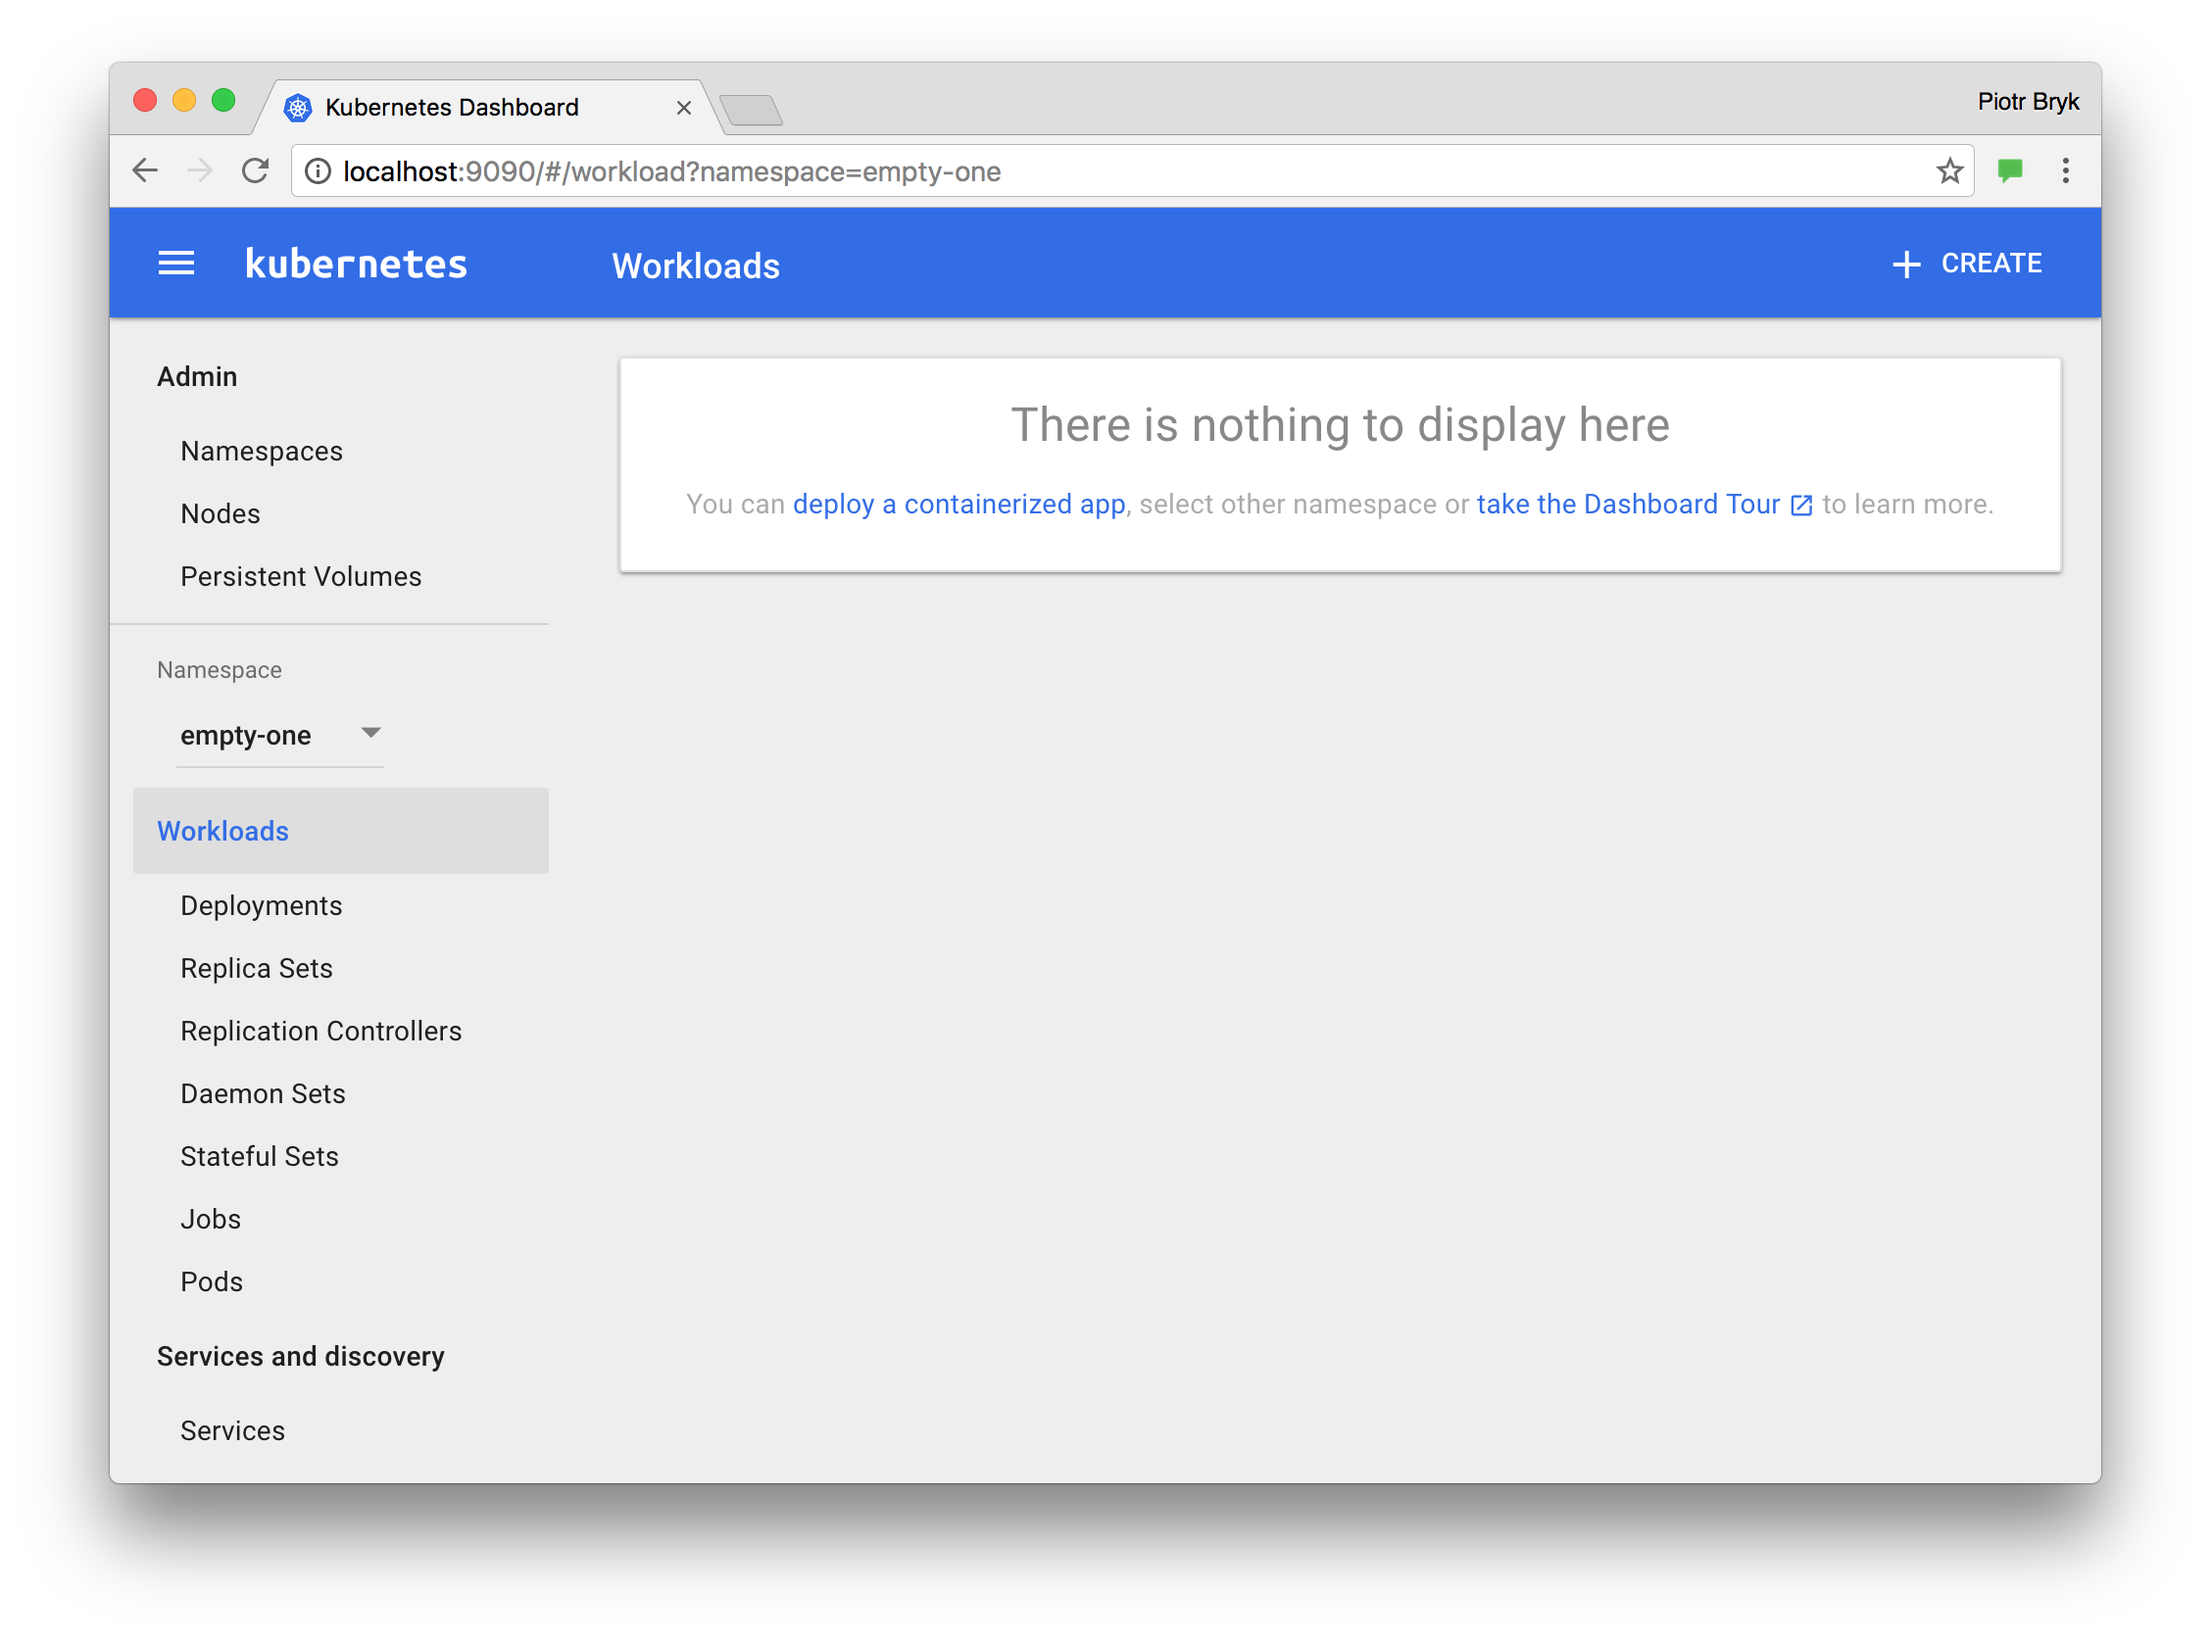
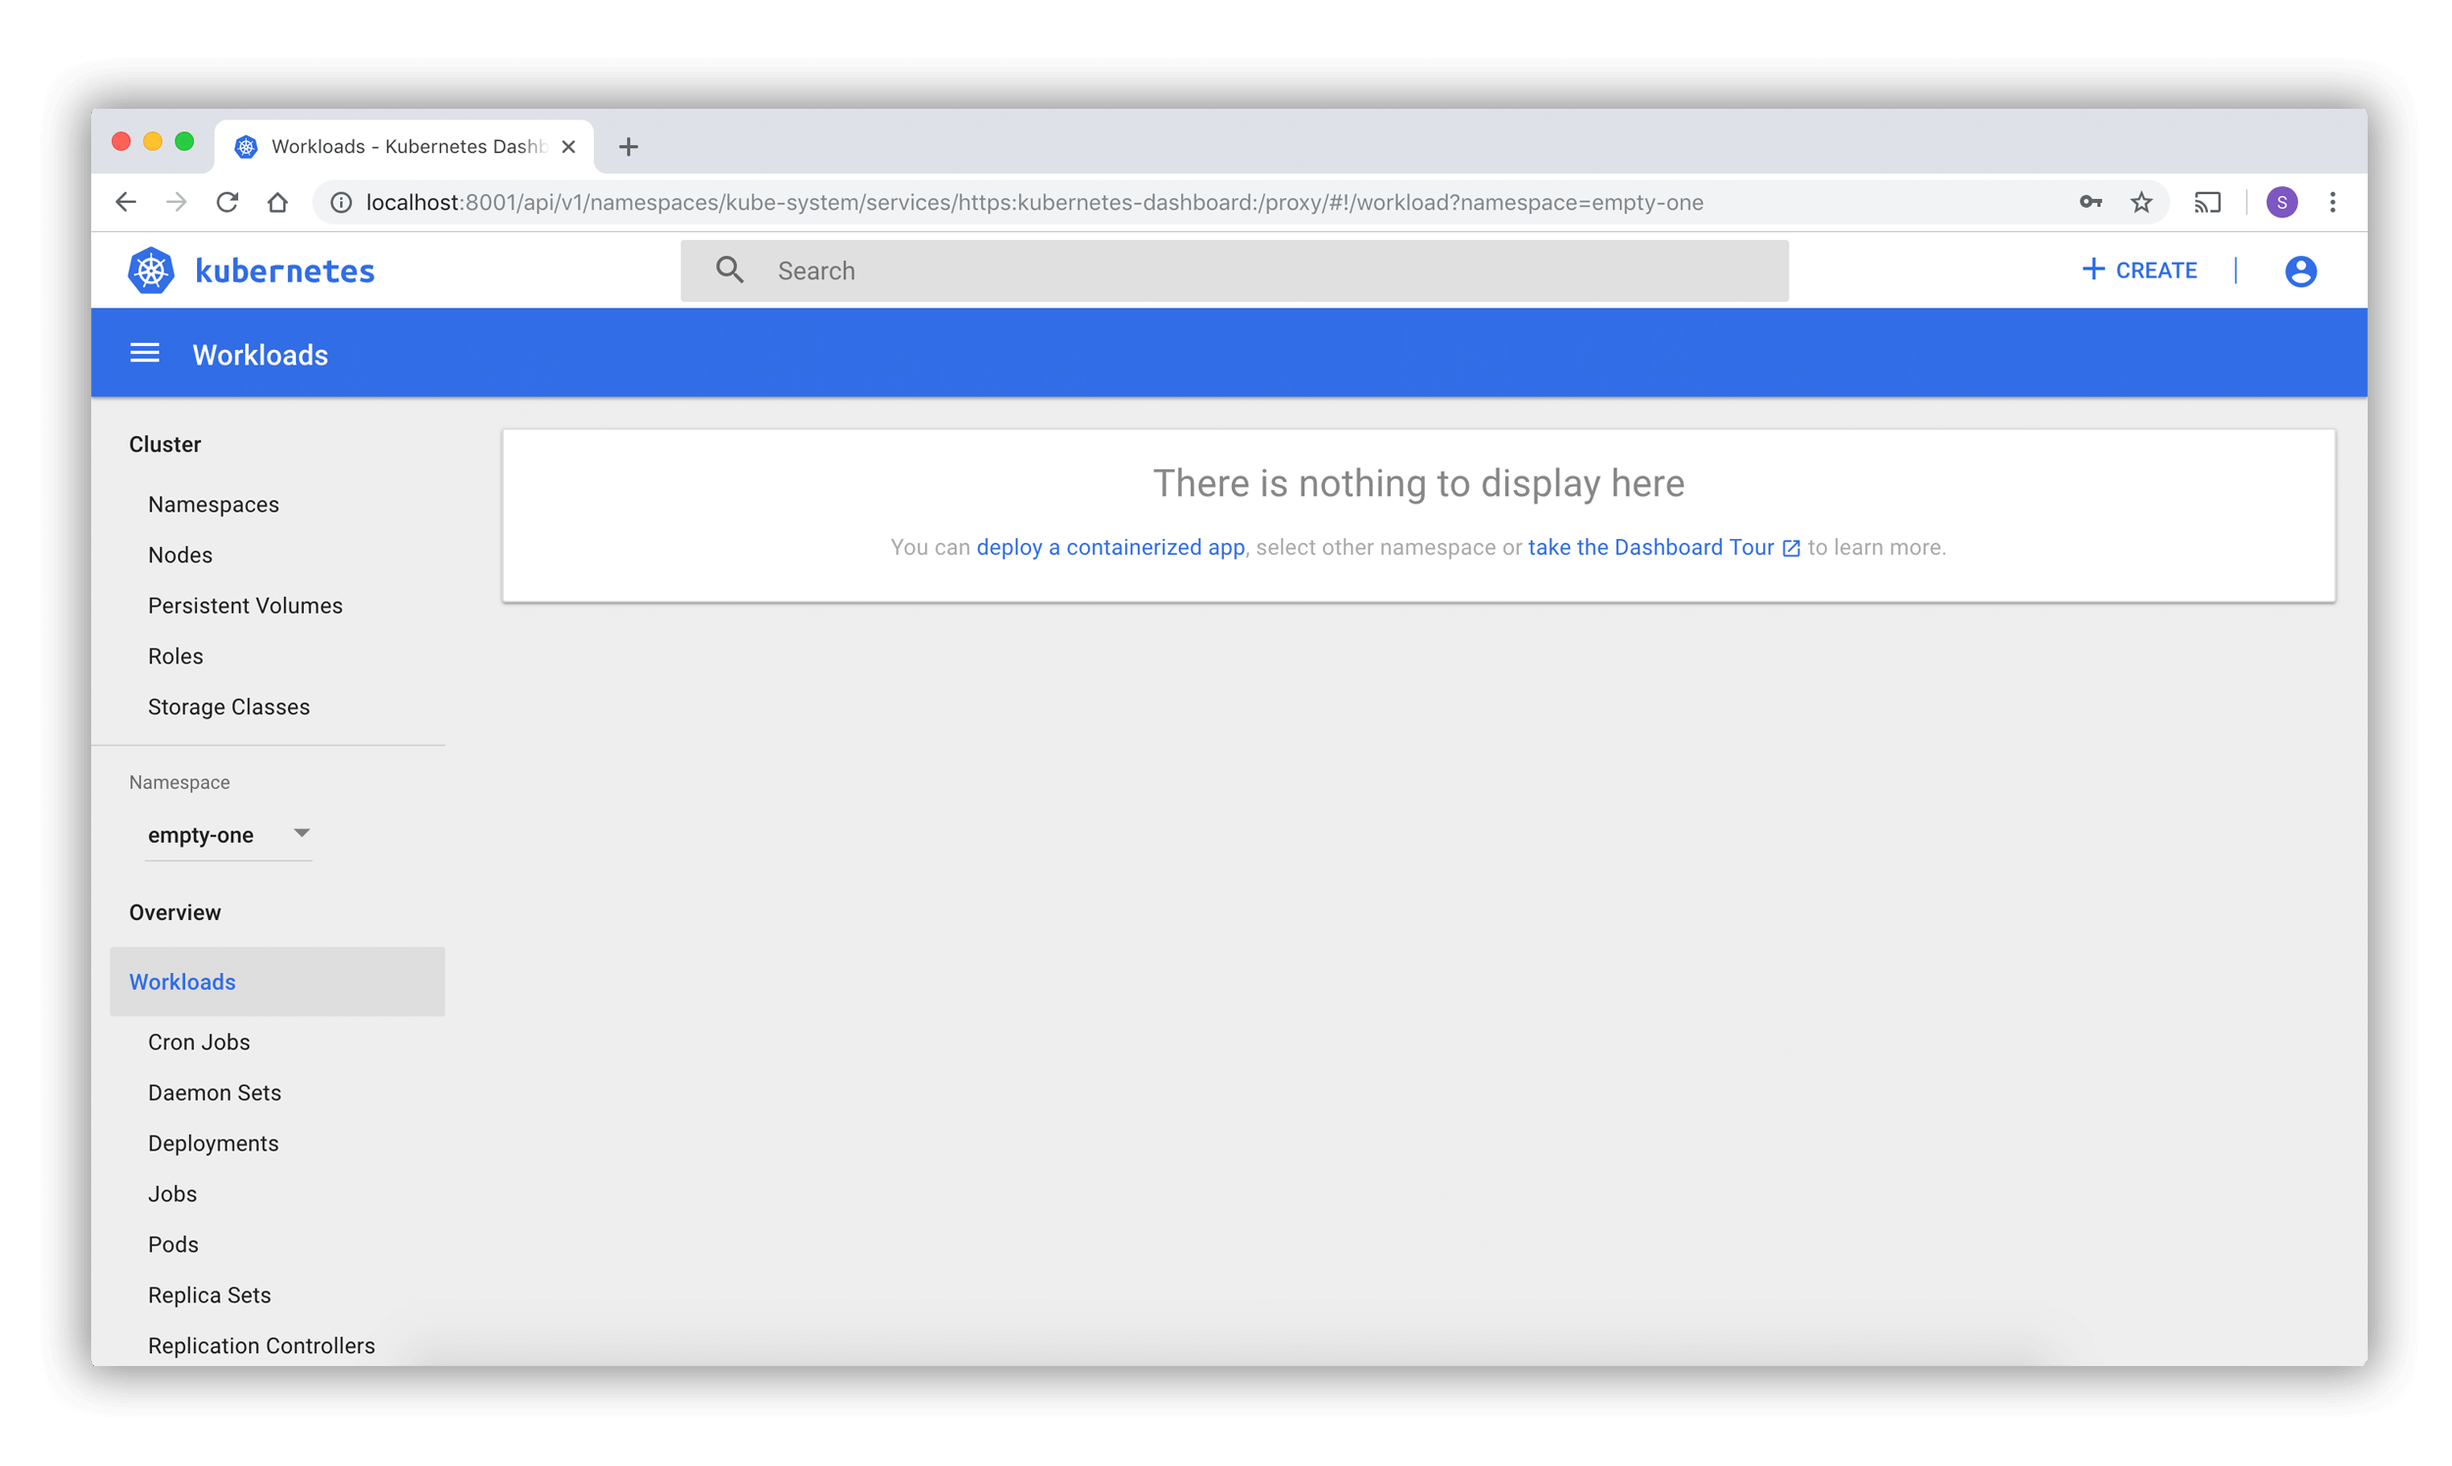
Ui dashboard docs refresh (#11653)
* updating docs for Dashboard

* removing old images

Changed region(s): [[0.031, 0.0307, 0.9929, 0.9532]]

diff --git a/content/en/docs/tasks/access-application-cluster/web-ui-dashboard.md b/content/en/docs/tasks/access-application-cluster/web-ui-dashboard.md
@@ -10,9 +10,9 @@ weight: 10
 
 {{% capture overview %}}
 
-Dashboard is a web-based Kubernetes user interface. You can use Dashboard to deploy containerized applications to a Kubernetes cluster, troubleshoot your containerized application, and manage the cluster itself along with its attendant resources. You can use Dashboard to get an overview of applications running on your cluster, as well as for creating or modifying individual Kubernetes resources (such as Deployments, Jobs, DaemonSets, etc). For example, you can scale a Deployment, initiate a rolling update, restart a pod or deploy new applications using a deploy wizard.
+Dashboard is a web-based Kubernetes user interface. You can use Dashboard to deploy containerized applications to a Kubernetes cluster, troubleshoot your containerized application, and manage the cluster resources. You can use Dashboard to get an overview of applications running on your cluster, as well as for creating or modifying individual Kubernetes resources (such as Deployments, Jobs, DaemonSets, etc). For example, you can scale a Deployment, initiate a rolling update, restart a pod or deploy new applications using a deploy wizard.
 
-Dashboard also provides information on the state of Kubernetes resources in your cluster, and on any errors that may have occurred.
+Dashboard also provides information on the state of Kubernetes resources in your cluster and on any errors that may have occurred.
 
 ![Kubernetes Dashboard UI](/images/docs/ui-dashboard.png)
 
@@ -31,7 +31,11 @@ kubectl create -f https://raw.githubusercontent.com/kubernetes/dashboard/master/
 
 ## Accessing the Dashboard UI
 
-There are multiple ways you can access the Dashboard UI; either by using the kubectl command-line interface, or by accessing the Kubernetes master apiserver using your web browser.
+To protect your cluster data, Dashboard deploys with a minimal RBAC configuration by default. Currently, Dashboard only supports logging in with a Bearer Token. To create a token for this demo, you can follow our guide on [creating a sample user](https://github.com/kubernetes/dashboard/wiki/Creating-sample-user).
+
+{{< warning >}}
+The sample user created in the tutorial will have administrative privelages and is for educational purposes only.
+{{< /warning >}}
 
 ### Command line proxy
 You can access Dashboard using the kubectl command-line tool by running the following command:
@@ -40,17 +44,13 @@ You can access Dashboard using the kubectl command-line tool by running the foll
 kubectl proxy
 ```
 
-Kubectl will handle authentication with apiserver and make Dashboard available at http://localhost:8001/api/v1/namespaces/kube-system/services/https:kubernetes-dashboard:/proxy/.
+Kubectl will make Dashboard available at http://localhost:8001/api/v1/namespaces/kube-system/services/https:kubernetes-dashboard:/proxy/.
 
 The UI can _only_ be accessed from the machine where the command is executed. See `kubectl proxy --help` for more options.
 
-### Master server
-You may access the UI directly via the Kubernetes master apiserver. Open a browser and navigate to ``https://<master-ip>:<apiserver-port>/api/v1/namespaces/kube-system/services/https:kubernetes-dashboard:/proxy/``, where `<master-ip>` is IP address or domain name of the Kubernetes
-master.
-
-Please note, this works only if the apiserver is set up to allow authentication with username and password. This is not currently the case with some setup tools (e.g., `kubeadm`). Refer to the  [authentication admin documentation](/docs/reference/access-authn-authz/authentication/) for information on how to configure authentication manually.
-
-If the username and password are configured but unknown to you, then use `kubectl config view` to find it.
+{{< note >}}
+Kubeconfig Authentication method does NOT support external identity providers or x509 certificate-based authentication.
+{{< /note >}}
 
 ## Welcome view
 
@@ -62,9 +62,7 @@ When you access Dashboard on an empty cluster, you'll see the welcome page. This
 
 Dashboard lets you create and deploy a containerized application as a Deployment and optional Service with a simple wizard. You can either manually specify application details, or upload a YAML or JSON file containing application configuration.
 
-To access the deploy wizard from the Welcome page, click the respective button. To access the wizard at a later point in time, click the **CREATE** button in the upper right corner of any page.
-
-![Deploy wizard](/images/docs/ui-dashboard-deploy-simple.png)
+Click the **CREATE** button in the upper right corner of any page to begin.
 
 ### Specifying application details
 
@@ -126,9 +124,7 @@ track=stable
 
 Kubernetes supports declarative configuration. In this style, all configuration is stored in YAML or JSON configuration files using the Kubernetes [API](/docs/concepts/overview/kubernetes-api/) resource schemas.
 
-As an alternative to specifying application details in the deploy wizard, you can define your application in YAML or JSON files, and upload the files using Dashboard:
-
-![Deploy wizard file upload](/images/docs/ui-dashboard-deploy-file.png)
+As an alternative to specifying application details in the deploy wizard, you can define your application in YAML or JSON files, and upload the files using Dashboard.
 
 ## Using Dashboard
 Following sections describe views of the Kubernetes Dashboard UI; what they provide and how can they be used.
@@ -139,35 +135,25 @@ When there are Kubernetes objects defined in the cluster, Dashboard shows them i
 
 Dashboard shows most Kubernetes object kinds and groups them in a few menu categories.
 
-#### Admin
-View for cluster and namespace administrators. It lists Nodes, Namespaces and Persistent Volumes and has detail views for them. Node list view contains CPU and memory usage metrics aggregated across all Nodes. The details view shows the metrics for a Node, its specification, status, allocated resources, events and pods running on the node.
-
-![Node detail view](/images/docs/ui-dashboard-node.png)
+#### Admin Overview
+For cluster and namespace administrators, Dashboard lists Nodes, Namespaces and Persistent Volumes and has detail views for them. Node list view contains CPU and memory usage metrics aggregated across all Nodes. The details view shows the metrics for a Node, its specification, status, allocated resources, events and pods running on the node.
 
 #### Workloads
-Entry point view that shows all applications running in the selected namespace. The view lists applications by workload kind (e.g., Deployments, Replica Sets, Stateful Sets, etc.) and each workload kind can be viewed separately. The lists summarize actionable information about the workloads, such as the number of ready pods for a Replica Set or current memory usage for a Pod.
-
-![Workloads view](/images/docs/ui-dashboard-workloadview.png)
+Shows all applications running in the selected namespace. The view lists applications by workload kind (e.g., Deployments, Replica Sets, Stateful Sets, etc.) and each workload kind can be viewed separately. The lists summarize actionable information about the workloads, such as the number of ready pods for a Replica Set or current memory usage for a Pod.
 
 Detail views for workloads show status and specification information and surface relationships between objects. For example, Pods that Replica Set is controlling or New Replica Sets and Horizontal Pod Autoscalers for Deployments.
 
-![Deployment detail view](/images/docs/ui-dashboard-deployment-detail.png)
-
-#### Services and discovery
-Services and discovery view shows Kubernetes resources that allow for exposing services to external world and discovering them within a cluster. For that reason, Service and Ingress views show Pods targeted by them, internal endpoints for cluster connections and external endpoints for external users.
-
-![Service list partial view](/images/docs/ui-dashboard-service-list.png)
+#### Services
+Shows Kubernetes resources that allow for exposing services to external world and discovering them within a cluster. For that reason, Service and Ingress views show Pods targeted by them, internal endpoints for cluster connections and external endpoints for external users.
 
 #### Storage
 Storage view shows Persistent Volume Claim resources which are used by applications for storing data.
 
-#### Config
-Config view shows all Kubernetes resources that are used for live configuration of applications running in clusters. This is now Config Maps and Secrets. The view allows for editing and managing config objects and displays secrets hidden by default.
-
-![Secret detail view](/images/docs/ui-dashboard-secret-detail.png)
+#### Config Maps and Secrets
+Shows all Kubernetes resources that are used for live configuration of applications running in clusters. The view allows for editing and managing config objects and displays secrets hidden by default.
 
 #### Logs viewer
-Pod lists and detail pages link to logs viewer that is built into Dashboard. The viewer allows for drilling down logs from containers belonging to a single Pod.
+Pod lists and detail pages link to a logs viewer that is built into Dashboard. The viewer allows for drilling down logs from containers belonging to a single Pod.
 
 ![Logs viewer](/images/docs/ui-dashboard-logs-view.png)
 
